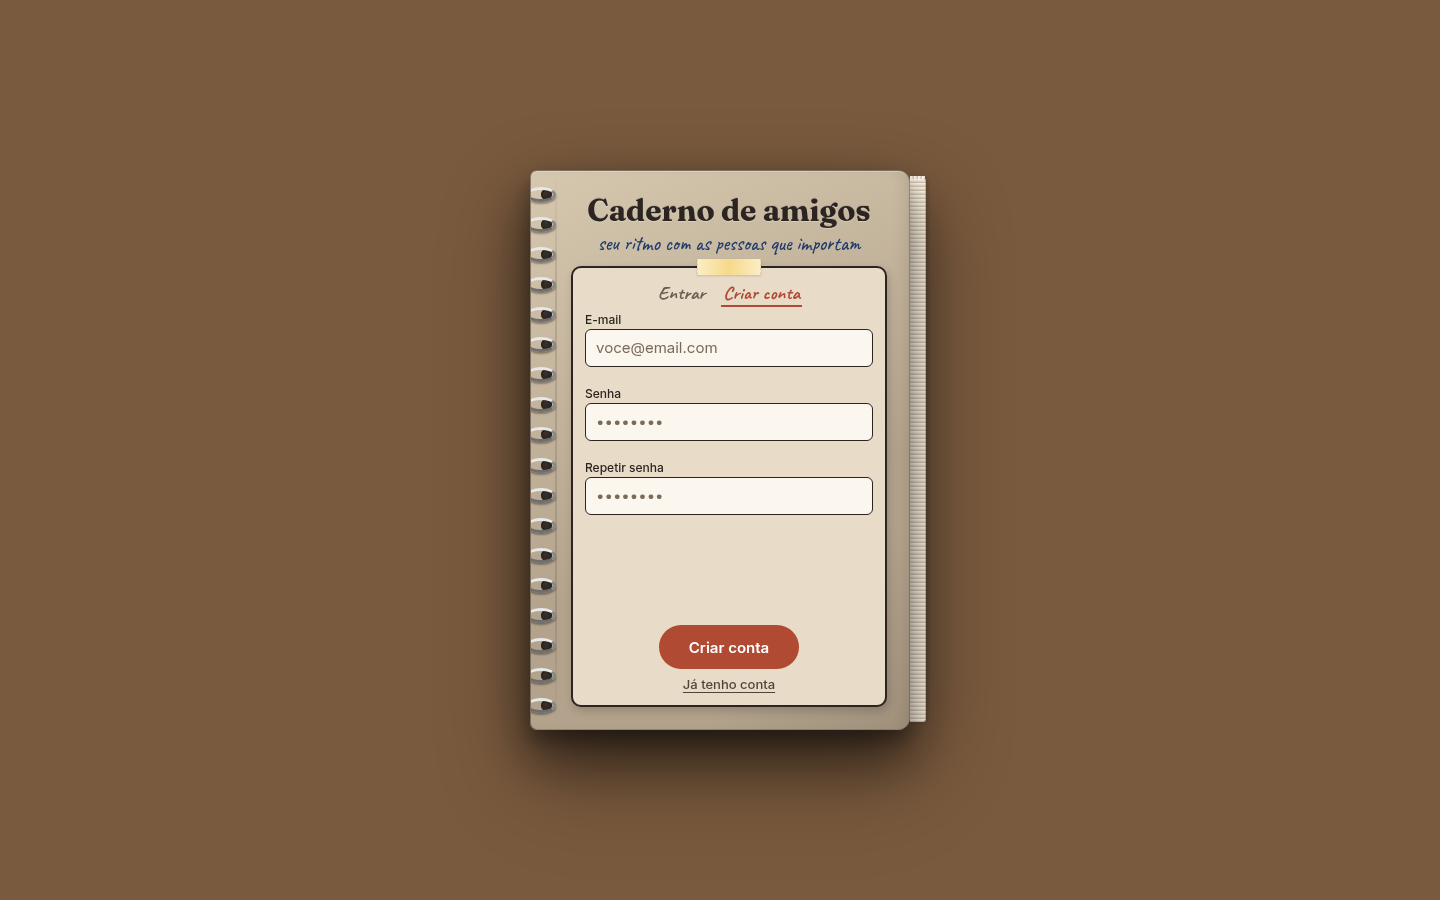
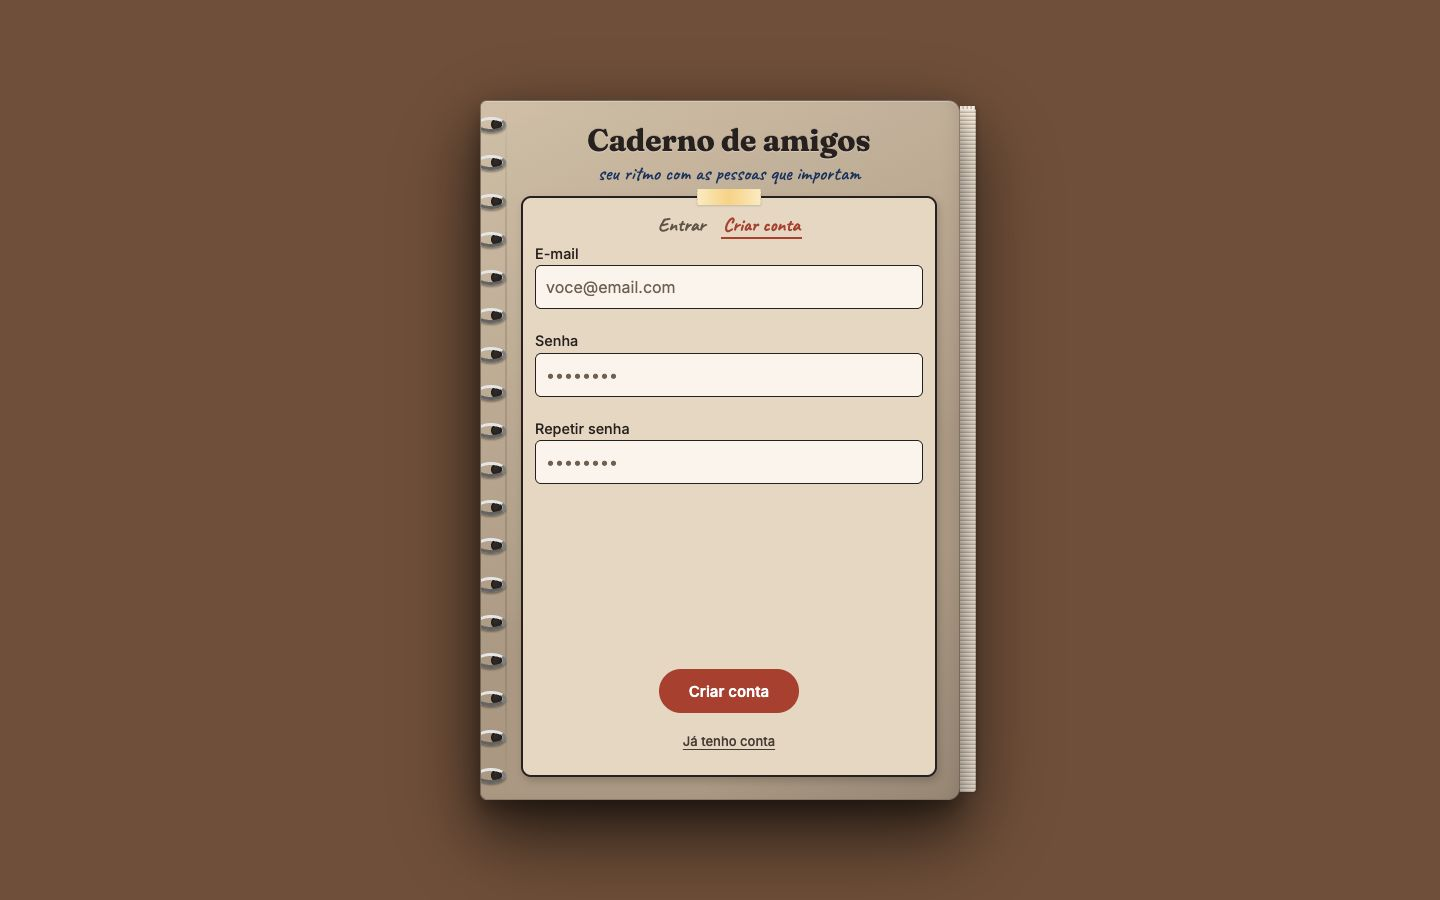
fix: complete CRM-20 auth routing and references

Changed region(s): [[0.3125, 0.0933, 0.7188, 0.9644]]

diff --git a/design/direcoes/auth-capa.html b/design/direcoes/auth-capa.html
@@ -35,13 +35,14 @@ body{margin:0;font-family:Inter,system-ui,sans-serif;color:var(--tinta);backgrou
 
 .cena{min-height:100dvh;display:flex;align-items:center;justify-content:center;padding:20px 18px;box-sizing:border-box}
 
-/* Caderno fechado: largura E altura FIXAS (iguais em Entrar e Criar, todos os estados) */
+/* Caderno fechado: tamanho estável por viewport em Entrar, Criar e todos os estados. */
 .caderno{
-  --capa-w: min(340px, calc(100vw - 40px));
-  --capa-h: 520px; /* cabe criar + 3 erros; não muda ao trocar modo */
+  --capa-w: min(400px, calc(100vw - 40px));
+  --capa-h: min(620px, calc(100dvh - 40px));
   position:relative;
   width:var(--capa-w);
   height:var(--capa-h);
+  min-height:520px;
   filter:drop-shadow(0 28px 40px rgba(0,0,0,.4));
 }
 
@@ -126,7 +127,7 @@ body{margin:0;font-family:Inter,system-ui,sans-serif;color:var(--tinta);backgrou
   border-radius:10px;
   box-shadow:var(--sombra-papel);
   transform:none;
-  padding:12px 10px 10px;
+  padding:16px 12px 12px;
   flex:1 1 auto;
   min-height:0;
   display:flex;flex-direction:column;
@@ -151,30 +152,30 @@ body{margin:0;font-family:Inter,system-ui,sans-serif;color:var(--tinta);backgrou
 
 .campos{flex:1 1 auto;min-height:0;display:flex;flex-direction:column;justify-content:flex-start}
 .campo-bloco{margin-bottom:4px;flex:none}
-.campo-bloco label{display:block;font:500 12px/14px Inter,sans-serif;color:var(--tinta);margin-bottom:2px}
+.campo-bloco label{display:block;font:500 .9rem/1.2 Inter,sans-serif;color:var(--tinta);margin-bottom:3px}
 .campo{
-  height:36px;padding:0 10px;width:100%;
+  height:44px;padding:0 10px;width:100%;
   background:var(--folha);border:1.5px solid var(--tinta);border-radius:6px;
-  font:400 14px/18px Inter,sans-serif;color:var(--tinta);
+  font:400 1rem/1 Inter,sans-serif;color:var(--tinta);
 }
 .campo::placeholder{color:var(--neutro-500)}
 .campo:focus{outline:none;box-shadow:var(--anel-foco)}
 .campo[aria-invalid="true"]{border-color:var(--erro)}
 /* reserva 1 linha p/ erro — estado erro não muda altura da capa */
-.msg-erro{font:400 11px/14px Inter,sans-serif;color:var(--erro);margin:2px 0 0;min-height:14px}
+.msg-erro{font:400 .8rem/1.25 Inter,sans-serif;color:var(--erro);margin:3px 0 0;min-height:16px}
 .msg-erro:empty,.msg-erro[data-empty="1"]{visibility:hidden}
 
 .acoes{display:flex;flex-direction:column;align-items:center;gap:6px;margin-top:auto;flex:none;padding-top:4px}
 .btn-pri{
   display:inline-flex;align-items:center;justify-content:center;gap:8px;
-  min-height:42px;min-width:140px;padding:0 22px;border:0;border-radius:999px;
+  min-height:44px;min-width:140px;padding:0 22px;border:0;border-radius:999px;
   background:var(--primaria);color:#fff;font:600 15px/1 Inter,sans-serif;cursor:pointer;
 }
 .btn-pri:hover:not(:disabled){background:var(--primaria-700)}
 .btn-pri:active:not(:disabled){background:var(--primaria-800)}
 .btn-pri:disabled{opacity:.55;cursor:not-allowed}
 .btn-pri:focus-visible{outline:none;box-shadow:var(--anel-foco)}
-.link-troca{font:500 13px/18px Inter,sans-serif;color:var(--neutro-700);text-decoration:underline;text-underline-offset:3px}
+.link-troca{min-height:44px;display:inline-flex;align-items:center;font:500 13px/18px Inter,sans-serif;color:var(--neutro-700);text-decoration:underline;text-underline-offset:3px}
 .link-troca:focus-visible{outline:none;box-shadow:var(--anel-foco);border-radius:4px}
 [data-lucide]{width:16px;height:16px;stroke-width:2}
 .spin{animation:spin 1s linear infinite}
@@ -182,23 +183,19 @@ body{margin:0;font-family:Inter,system-ui,sans-serif;color:var(--tinta);backgrou
 @media (prefers-reduced-motion:reduce){.spin{animation:none}}
 
 @media (min-width:768px){
-  .cena{padding:48px}
-  .caderno{--capa-w:380px;--capa-h:560px}
+  .caderno{--capa-w:480px;--capa-h:min(700px, calc(100dvh - 40px));min-height:560px}
   .bloco-folhas{right:-16px;width:16px}
   .capa{padding:22px 22px 22px 40px;gap:10px;border-radius:7px 12px 12px 7px}
   .marca h1{font-size:1.9rem}
   .marca .sub{font-size:1.25rem}
-  .etiqueta{padding:14px 12px 12px}
-  .campo{height:38px;font-size:15px}
-  .btn-pri{min-height:44px}
+  .etiqueta{padding:16px 12px 12px}
 }
 @media (max-width:400px){
-  .caderno{--capa-h:500px}
+  .caderno{--capa-h:min(580px, calc(100dvh - 40px));min-height:500px}
   .capa{padding:14px 12px 14px 30px;gap:6px}
   .marca h1{font-size:1.3rem}
   .etiqueta{padding:10px 8px 8px}
-  .campo{height:34px}
-  .btn-pri{min-height:40px}
+  .campo{height:40px}
 }
 </style></head>
 <body class="mesa">

diff --git a/frontend/src/router.test.ts b/frontend/src/router.test.ts
@@ -12,7 +12,7 @@ describe('authentication guard', () => {
   })
   afterEach(() => vi.unstubAllGlobals())
 
-  it('sends a visitor to login and remembers the requested route', async () => {
+  it('sends a visitor to login without an unused redirect query', async () => {
     vi.stubGlobal('fetch', vi.fn().mockResolvedValue(Response.json({ authenticated: false, user: null, email: null })))
     const router = createRouter({ history: createMemoryHistory(), routes })
     install_auth_guard_for_router(router)
@@ -20,7 +20,17 @@ describe('authentication guard', () => {
     await router.push('/config')
 
     expect(router.currentRoute.value.path).toBe('/entrar')
-    expect(router.currentRoute.value.query.redirect).toBe('/config')
+    expect(router.currentRoute.value.query).toEqual({})
+  })
+
+  it('redirects the old login route to enter', async () => {
+    auth_state.current_user = 'ana@example.com'
+    auth_state.is_initialized = true
+    const router = createRouter({ history: createMemoryHistory(), routes })
+
+    await router.push('/login')
+
+    expect(router.currentRoute.value.path).toBe('/entrar')
   })
 
   it('allows a protected route when the session is authenticated', async () => {

diff --git a/frontend/src/router.ts b/frontend/src/router.ts
@@ -17,6 +17,7 @@ export const routes: RouteRecordRaw[] = [
     name: 'friend-detail',
     components: { default: FriendsView, detail: FriendDetailView },
   },
+  { path: '/login', redirect: '/entrar' },
   { path: '/entrar', name: 'login', component: LoginView },
   { path: '/config', name: 'config', component: ConfigView },
 ]
@@ -26,7 +27,7 @@ export function install_auth_guard_for_router(router: Router): void {
     if (!auth_state.is_initialized) await get_session_for_browser()
     // /api/me/ returns 200 with authenticated:false so a visitor also receives the CSRF cookie.
     if (to.name !== 'login' && auth_state.current_user === null) {
-      return { name: 'login', query: { redirect: to.fullPath } }
+      return { name: 'login' }
     }
     if (to.name === 'login' && auth_state.current_user !== null) return { name: 'board' }
   })

diff --git a/backend/src/caderno/urls.py b/backend/src/caderno/urls.py
@@ -2,7 +2,7 @@
 
 from django.contrib import admin
 from django.urls import include, path
-from django.views.generic import TemplateView
+from django.views.generic import RedirectView, TemplateView
 
 frontend_view = TemplateView.as_view(template_name="index.html")
 
@@ -16,6 +16,7 @@ urlpatterns = [
     path("amigos/novo", frontend_view),
     path("amigos/<str:friend_id>", frontend_view),
     path("config", frontend_view),
+    path("login", RedirectView.as_view(url="/entrar")),
     path("entrar", frontend_view),
     path("quadro", frontend_view),
     path("", frontend_view, name="home"),

diff --git a/backend/src/caderno/tests/test_urls.py b/backend/src/caderno/tests/test_urls.py
@@ -1,5 +1,6 @@
 """Routes that serve the Vue application on direct browser visits."""
 
+from django.test import Client
 from django.urls import resolve
 
 
@@ -19,3 +20,11 @@ class TestSpaRoutes:
         # Act and assert
         for url in urls:
             assert resolve(url).func is index_view
+
+    def test_old_login_url_redirects_to_enter(self) -> None:
+        # Act
+        response = Client().get("/login")
+
+        # Assert
+        assert response.status_code == 302
+        assert response["Location"] == "/entrar"

diff --git a/docs/ADRs/2026-10-20-contrato-api-mvp.md b/docs/ADRs/2026-10-20-contrato-api-mvp.md
@@ -10,6 +10,8 @@ Status: Aceito
 
 **Atualização 2026-10-25 (CRM-10)**: Migrados os IDs de Friend, Group e Contact de AutoField para UUIDField. URLs e JSON usam UUIDs em formato string (ex: `/api/friends/381f7c9e-0201-4e5c-8ef8-92daa351609f/`). O `contact_id` retornado no POST também é UUID string.
 
+**Atualização 2026-10-26 (CRM-20)**: Cadastro próprio e login por e-mail. Contas novas usam o e-mail em minúsculas como `username` interno; a API recebe `email`.
+
 ## Contexto
 
 Definição dos endpoints da API REST do Django REST Framework que o frontend Vue consome.
@@ -22,9 +24,14 @@ Sem contrato claro, frontend e backend evoluem de forma descoordenada, gerando r
 
 ### Autenticação (sessão)
 
+- `POST /api/register/` — cria conta e sessão; exige CSRF e tem limite de 5 tentativas por minuto
+  - Corpo: `{"email": "...", "password": "...", "password_confirm": "..."}`
+  - Resposta `201`: mesmo formato de `/api/me/` autenticado
+  - E-mail já usado, senhas diferentes ou senha com menos de 8 caracteres retornam `400` com erro no campo correspondente
 - `POST /api/login/` — cria sessão
-  - Corpo: `{"username": "...", "password": "..."}`
-  - Resposta: `{"authenticated": true, "user": "username", "email": "email"}`
+  - Corpo: `{"email": "...", "password": "..."}`
+  - Resposta: `{"authenticated": true, "user": "username", "email": "email"}`; para contas novas, `user` também é o e-mail em minúsculas
+  - Exige CSRF e tem limite de 5 tentativas por minuto
 - `POST /api/logout/` — invalida sessão
 - `GET /api/me/` — verifica se está logado, seta o cookie `csrftoken`
   - Resposta: `{"authenticated": true|false, "user": "username"|null, "email": "email"|null}`

diff --git a/design/spec.md b/design/spec.md
@@ -117,7 +117,7 @@ _Feedback Vinicius 26/10: (1) 1ª versão = "cartão com espiral"; (2) cor peach
 - **Espiral (esquerda):** anéis metálicos que **passam por furos** na capa. CSS puro.
 - **Título na capa** (Fraunces): "Caderno de amigos". Subtítulo Caveat `caneta`: "seu ritmo com as pessoas que importam".
 - **Formulário = etiqueta `.papel` colada NA capa:** 100% **dentro** do retângulo da capa (padding interno generoso; `overflow:hidden` na capa). Sem rotação que cause overflow (rotação zerada na v3). Fita washi CSS (`.fita`, `marca-texto`) no topo, também dentro. Toggle Entrar | Criar conta (Caveat), campos Inter, botão primário pill terracota. **Nunca** a etiqueta invade a mesa nem ultrapassa a borda inferior/direita.
-- Mobile: capa quase full-width com margem na mesa, até 400px de largura e 580–620px de altura conforme a largura da tela. Desktop: 480px de largura e até 700px de altura. Em telas baixas, a altura diminui até um mínimo que comporta o formulário; continua igual entre os modos e estados. Medidas ampliadas após feedback de 26/10/2026; o protótipo e os prints acima mostram a escala anterior.
+- Mobile: capa quase full-width com margem na mesa, até 400px de largura e 580–620px de altura conforme a largura da tela. Desktop: 480px de largura e até 700px de altura. Em telas baixas, a altura diminui até um mínimo que comporta o formulário; continua igual entre os modos e estados. Medidas ampliadas após feedback de 26/10/2026 no protótipo e nos prints.
 - Contraste AA em todos os textos/botões (tokens já checados em `identidade.md`).
 
 **Estados**
